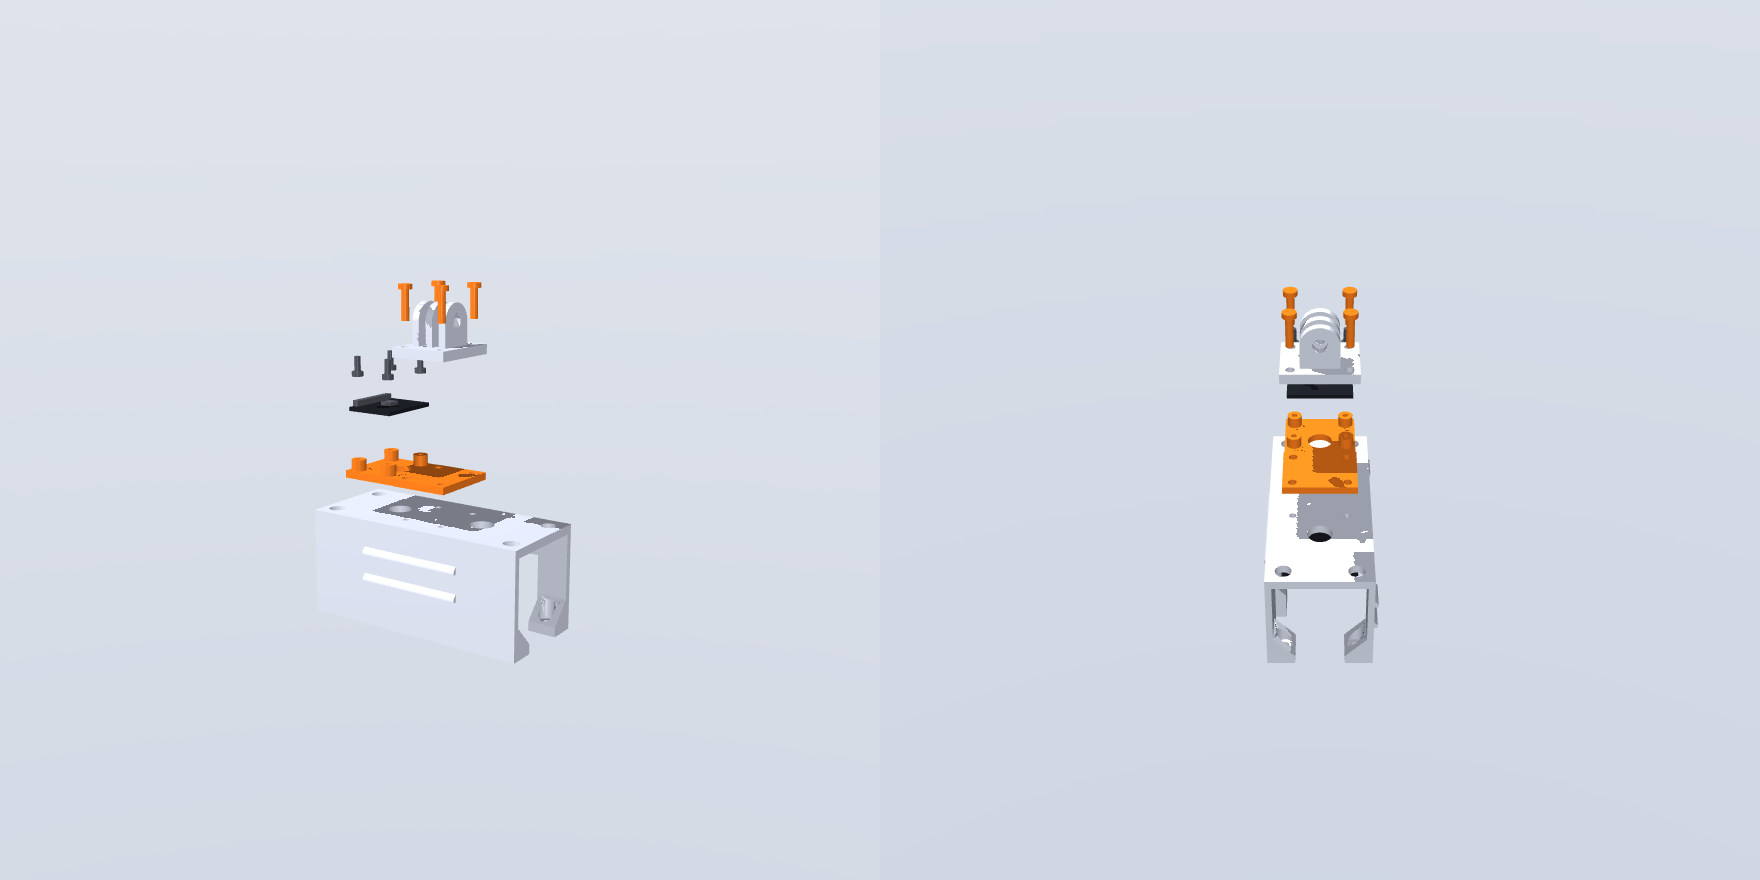
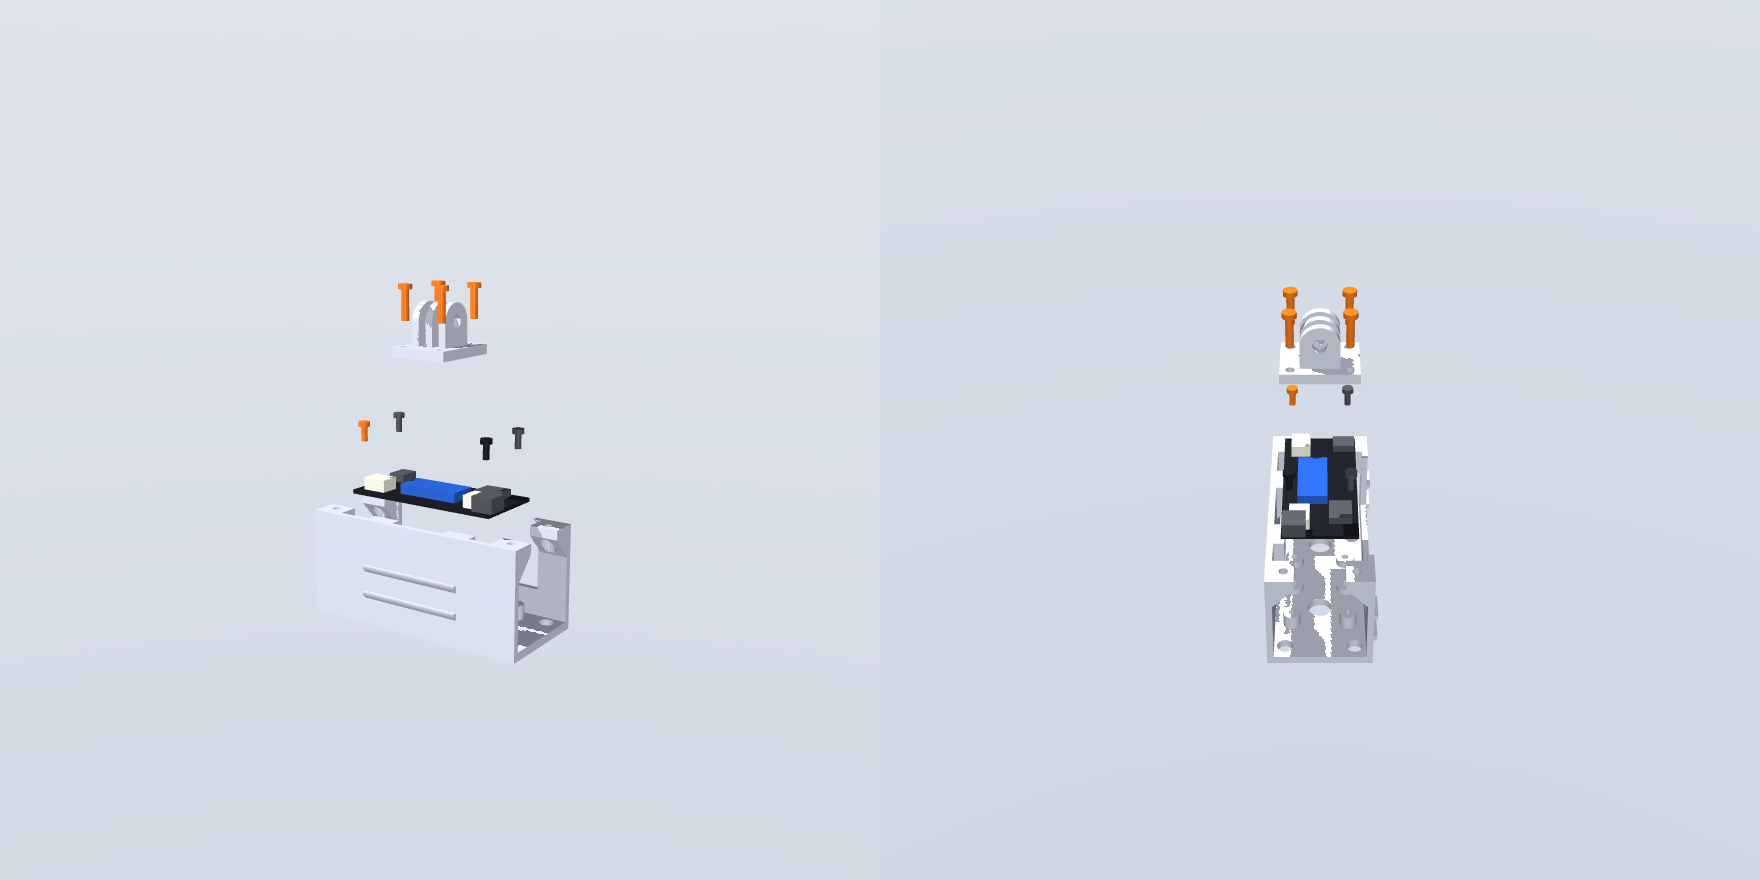
docs: restore leg_link_idler.png and fix the PRINT_LIST link that hid it
My obsolete-render sweep deleted cad/renders/leg_link_idler.png as
"unreferenced". It was not unwanted -- PRINT_LIST.md was pointing at the
PREVIOUS name. History:

  7a4749d  added leg_link_idler_notch.png (the invented fork notch)
  a13c6fd  reverted that notch: deleted _notch.png, added leg_link_idler.png
           ...but left PRINT_LIST.md still citing the _notch name

So the doc link had been dead since 2026-07-23, and the live figure looked
orphaned to a "not referenced anywhere" test. Restored the file and repointed
PRINT_LIST at it.

Also regenerated step08a_board.png / step08b_imu.png via
render_electronics_steps.py, which the earlier batch missed.

Every .png cited by any .md now resolves on disk -- checked, not assumed.

Changed region(s): [[0.1875, 0.3989, 0.3125, 0.7364], [0.7188, 0.4295, 0.7812, 0.767]]

diff --git a/cad/PRINT_LIST.md b/cad/PRINT_LIST.md
@@ -63,7 +63,7 @@
 > up the idler through-holes automatically. Checks after all three:
 > `check_printability.py` ALL PARTS PRINT CLEAN, `check_assembly.py` ALL
 > CLEAR. Renders: `renders/yoke_roll_idler.png`,
-> `renders/leg_link_idler_notch.png`, `renders/foot_divot.png` +
+> `renders/leg_link_idler.png`, `renders/foot_divot.png` +
 > `_driver.png`.
 
 ## Global print settings
